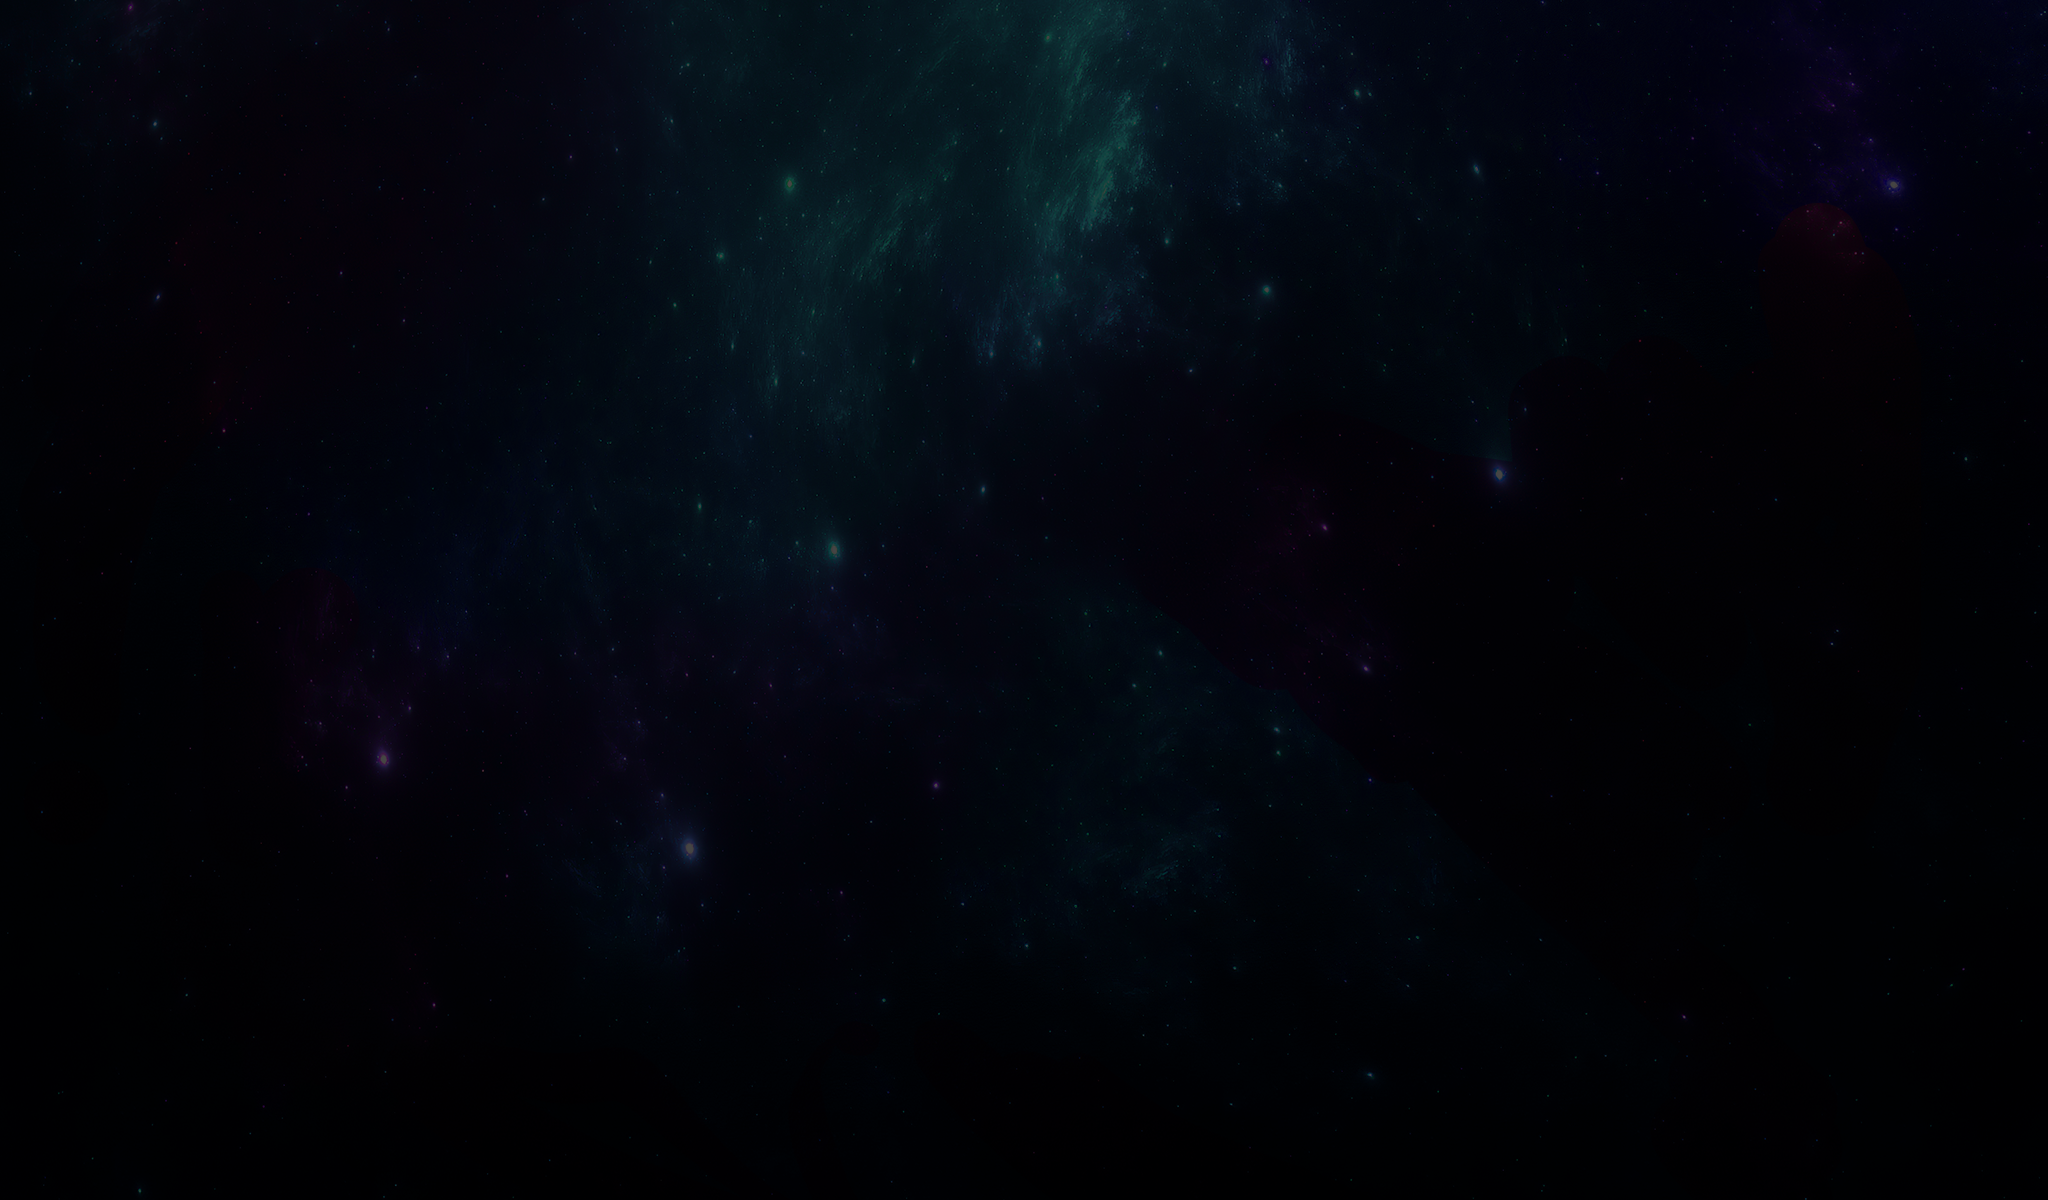
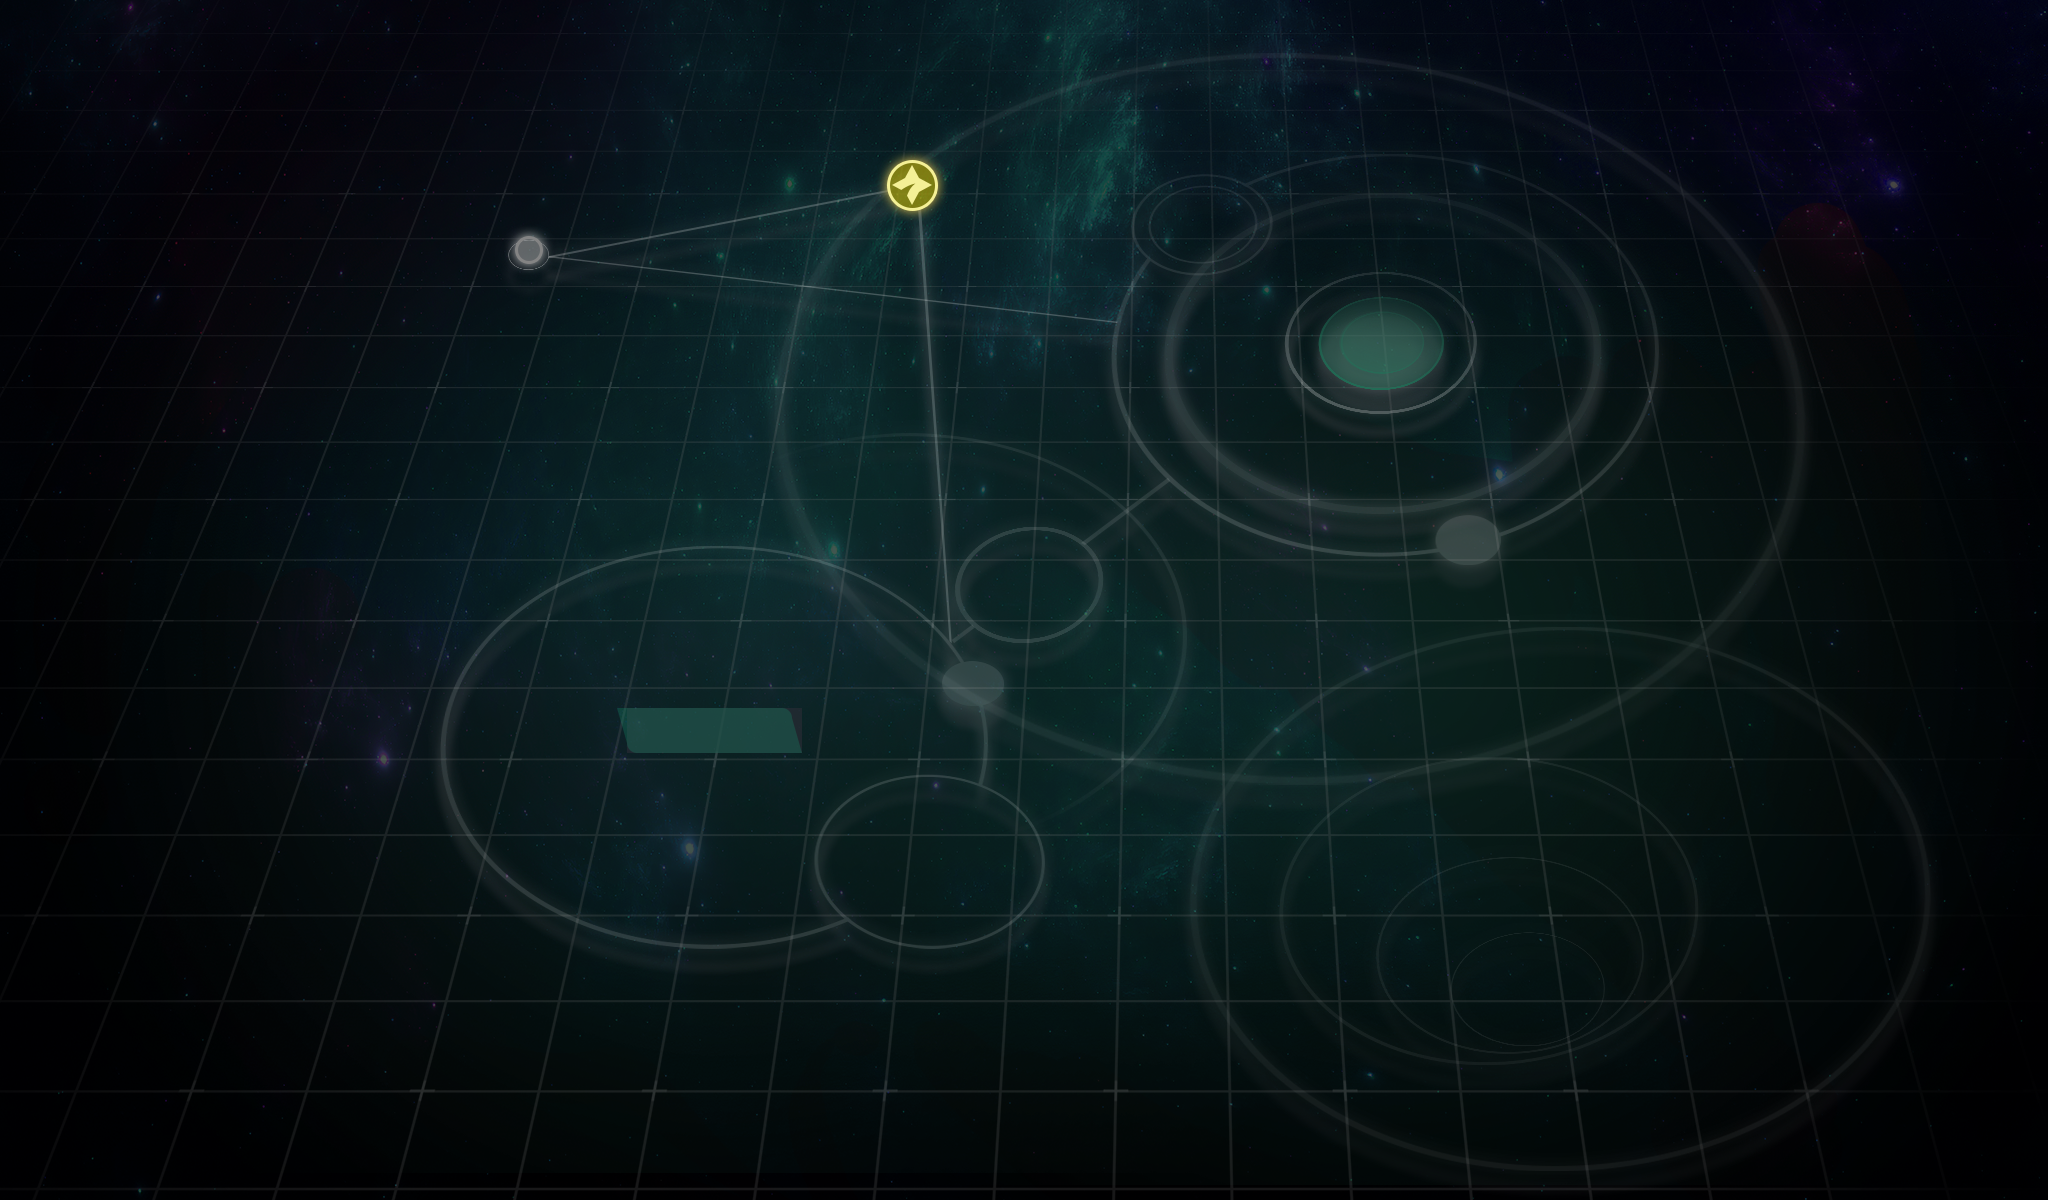
update main ui

diff --git a/packages/client/src/components/MainView.tsx b/packages/client/src/components/MainView.tsx
@@ -32,61 +32,91 @@ export class MainView {
         this.init();
     }
 
-    createPlanet(x: number, y: number, scale: number, name: string) {
-        let planet = new Sprite('../assets/main/planet.png');
+    createSprite(imgName: string, x: number, y: number, scale: number) {
+        let planet = new Sprite(`../assets/main/${imgName}.png`);
         planet.node.setLocalPosition(x, y);
         planet.node.setScale(scale, scale);
         this.planetRootNode.addChild(planet.node);
         this.renderObjs.push(planet);
+        return planet.node;
+    }
+
+    createPlanet(imgName: string, x: number, y: number, scale: number, name: string='', nameOffsetY: number = 30) {
+        // let planet = new Sprite(`../assets/main/${imgName}.png`);
+        // planet.node.setLocalPosition(x, y);
+        // planet.node.setScale(scale, scale);
+        // this.planetRootNode.addChild(planet.node);
+        // this.renderObjs.push(planet);
+        let planet = this.createSprite(imgName, x, y, scale);
         if(name.length > 0) {
             let planetName = new Label(name, 22);
             planetName.color = '#ffffff';
             planetName.node.setAnchor(0.5, 0.5);
-            planetName.node.setLocalPosition(0, 110);
-            planet.node.addChild(planetName.node);
+            planetName.node.setLocalPosition(0, nameOffsetY);
+            planet.addChild(planetName.node);
             this.renderObjs.push(planetName);
         }
-        return planet.node;
+        return planet;
     }
 
     createPlanetDesc() {
         let node = new Node();
-        let img1 = new Sprite('../assets/main/mark.png');
-        img1.node.setAnchor(0, 0.5);
-        let lblName = new Label('NAME', 36);
+        node.setLocalPosition(-10, -50);
+
+        let img1 = new Sprite('../assets/main/tip_frame.png');
+        img1.node.setAnchor(0, 0);
+
+        let lblName = new Label('Gamma', 36);
         lblName.node.setAnchor(0.5, 1);
-        lblName.node.setLocalPosition(170, -5);
+        lblName.node.setLocalPosition(190, 13);
+
         let imgFree = new Sprite('../assets/main/FREE.png');
         imgFree.node.setAnchor(0.5, 1);
-        imgFree.node.setLocalPosition(280, -5);
-
-        let imgBoard = new Sprite('../assets/main/board.png');
-        imgBoard.node.setAnchor(0, 0);
-        imgBoard.node.setLocalPosition(90, 10);
+        imgFree.node.setLocalPosition(310, 13);
 
         let playBtnBg = new Sprite('../assets/main/PLAY.png');
-        playBtnBg.node.setLocalPosition(170, 190);
+        playBtnBg.node.setLocalPosition(280, 220);
         this.playBtn = playBtnBg.node;
         
 
-        let desc = new Label('description description description description description description description description description', 22, 280);
-        // let desc = new Label('descriptdes', 22, 111);
+        let desc = new Label('copper ore, iron ore, silver ore,platinum ore, tin ore, titanium ore, shaft ore', 22, 300);
         desc.node.setAnchor(0.5, 0);
-        desc.node.setLocalPosition(170, 50);
+        desc.node.setLocalPosition(280, 90);
+
+        let head = new Sprite('../assets/main/head_icon.png');
+        head.node.setLocalPosition(140, 50);
+
+        let head_count = new Label('1000', 22);
+        head_count.node.setAnchor(0, 0.5);
+        head_count.node.setLocalPosition(10, 0);
+
+        let clock = new Sprite('../assets/main/clock_icon.png');
+        clock.node.setLocalPosition(360, 50);
+
+        let clock_number = new Label('00:00', 22);
+        clock_number.node.setAnchor(0, 1);
+        clock_number.node.setLocalPosition(15, 9);
 
         this.renderObjs.push(img1);
         this.renderObjs.push(lblName);
         this.renderObjs.push(imgFree);
-        this.renderObjs.push(imgBoard);
         this.renderObjs.push(playBtnBg);
         this.renderObjs.push(desc);
+        this.renderObjs.push(head);
+        this.renderObjs.push(head_count);
+        this.renderObjs.push(clock);
+        this.renderObjs.push(clock_number);
+
 
         node.addChild(img1.node);
-        imgBoard.node.addChild(playBtnBg.node);
-        imgBoard.node.addChild(desc.node);
-        img1.node.addChild(lblName.node);
-        img1.node.addChild(imgFree.node);
-        img1.node.addChild(imgBoard.node);
+        node.addChild(playBtnBg.node);
+        node.addChild(desc.node);
+        node.addChild(lblName.node);
+        node.addChild(imgFree.node);
+        node.addChild(head.node);
+        head.node.addChild(head_count.node);
+        node.addChild(clock.node);
+        clock.node.addChild(clock_number.node);
         return node;
     }
 
@@ -140,17 +170,35 @@ export class MainView {
         headNode.addChild(name_bg.node);
         headNode.addChild(coin.node);
 
-        this.createPlanet(200, 300, 0.75, '');
-        let selectPlanet = this.createPlanet(340, 450, 0.9, '');
-        this.createPlanet(500, 300, 0.75, '');
-        this.createPlanet(1000, 270, 0.5, 'Planet1');
-        this.createPlanet(1220, 200, 0.5, 'Planet2');
-        this.createPlanet(1040, 540, 0.5, 'Planet3');
-        this.createPlanet(1450, 340, 0.5, 'Planet4');
-        this.createPlanet(1320, 500, 0.5, 'Planet5');
+        this.createSprite('Public', 650, 615, 1);
+        this.createSprite('Private', 1318, 230, 1);
+
+        this.createPlanet('planet_y', 380, 625, 1);
+        this.createPlanet('planet_a', 685, 470, 1);
+        let selectPlanet = this.createPlanet('planet_p', 850, 770, 1);
+        this.createPlanet('planet_select', 850, 770, 1);
+        this.createPlanet('player_1', 1110, 360, 1, 'Starry sky rose');
+        this.createPlanet('player_2', 1560, 280, 1, '1000 resources', 40);
+        this.createPlanet('player_3', 1470, 100, 1, 'Can make money', 40);
+        this.createPlanet('player_4', 1385, 430, 1, 'Super planet', 40);
+        this.createPlanet('player_5', 1130, 114, 1, 'Dig together', 60);
 
         let markUI = this.createPlanetDesc();
         selectPlanet.addChild(markUI);
+
+        let coin1 = this.createSprite('circle_corner_frame', 1600, 30, 1);
+        this.createSprite('U_Coin', 1550, 30, 1);
+        let coin_u_count = new Label('1234567', 22);
+        coin_u_count.node.setLocalPosition(10, 0);
+        this.renderObjs.push(coin_u_count);
+        coin1.addChild(coin_u_count.node);
+
+        let coin2 = this.createSprite('circle_corner_frame', 1800, 30, 1);
+        this.createSprite('Star_Coin', 1750, 30, 1);
+        let coin_star_count = new Label('1234567', 22);
+        coin_star_count.node.setLocalPosition(10, 0);
+        this.renderObjs.push(coin_star_count);
+        coin2.addChild(coin_star_count.node);
     }
 
     public run() {

diff --git a/packages/client/src/core/Label.ts b/packages/client/src/core/Label.ts
@@ -23,7 +23,6 @@ export class Label {
 
         if(this.maxWidth > 0) {
             this.calcTexts(ctx);
-            let totalHeight = this.texts.length * textHeight;
             let x = this.node.position.x - this.maxWidth * this.node.anchor.x;
             let startY = this.node.position.y + this.texts.length * textHeight * (1 - this.node.anchor.y);
             for(let i = 0, len = this.texts.length; i < len; i++) {
